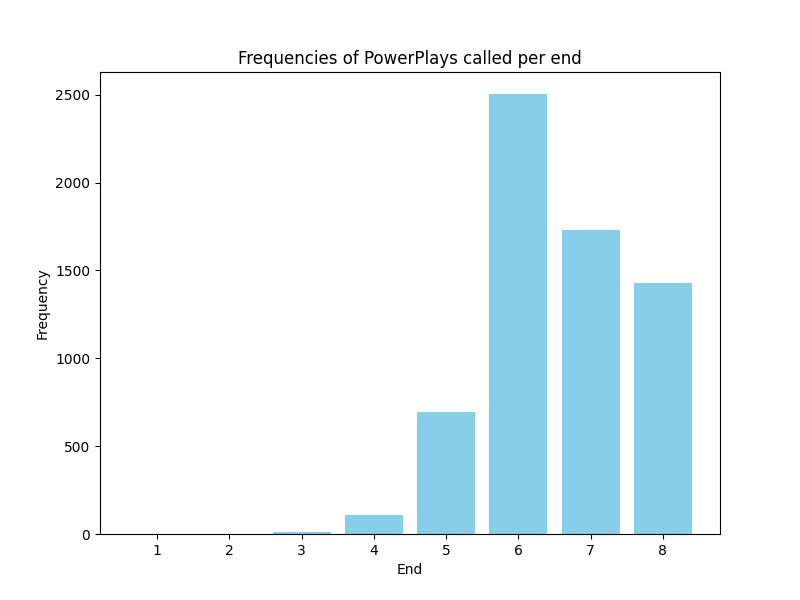
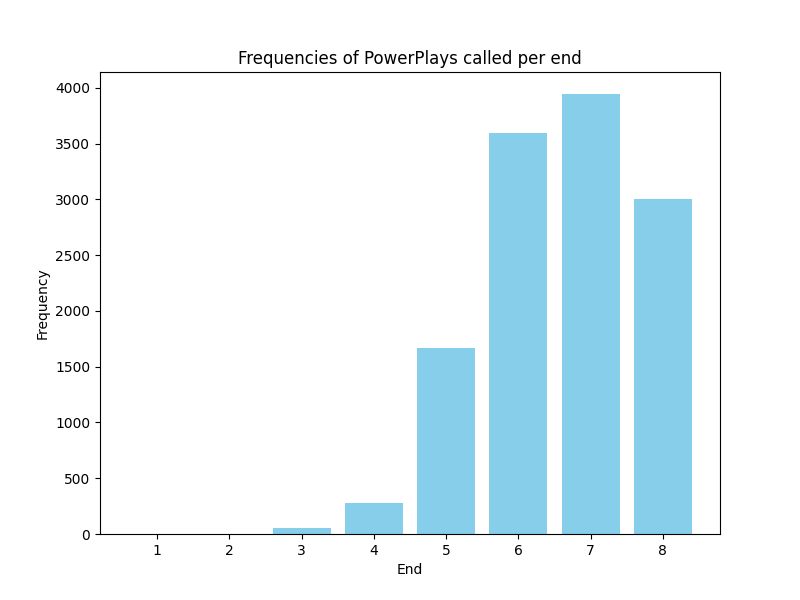
data

diff --git a/code/run_mcts.py b/code/run_mcts.py
@@ -8,8 +8,10 @@ from copy import deepcopy
 import json
 
 matches = 10000
+
 frequency_dict = {end: 0 for end in range(1, 9)}  
 frequency_dict["matches"] = matches
+
 wins_dict = {end: 0 for end in range(1, 9)}  
 draws_dict = {end: 0 for end in range(1, 9)} 
 loss_dict = {end: 0 for end in range(1, 9)}  
@@ -23,10 +25,11 @@ for _ in range(matches):
     powerplay_used = {1: False, 2: False}
     current_score = {1: 0, 2: 0}
     powerplays_remaining = {1: 1, 2: 1}
-    powerplay_end = None
+    pp_usage = {1: None, 2: None}
     root_has_hammer = (hammer == 1)
+
     for end in range(1, 9):
-        opp = [t for t in current_score if t != hammer][0]
+        opp = 3 - hammer
         state = GameState(
             current_score = deepcopy(current_score),
             end_number = end, 
@@ -36,12 +39,14 @@ for _ in range(matches):
             powerplays_remaining = deepcopy(powerplays_remaining)
         )   
 
-        mcts = MCTS(bayesian_eval_continuous, 5000)
+        mcts = MCTS(bayesian_eval_continuous, 1000)
         best_action, _ = mcts.search(state)
-
-        if best_action == "PP" and hammer == 1:
+        
+        if best_action == "PP" and powerplays_remaining[hammer] > 0:
+            pp_usage[hammer] = end
             frequency_dict[end] += 1
-            powerplay_end = end
+            powerplay_used[hammer] = True
+            powerplays_remaining[hammer] -= 1
 
         dist = PROB_TABLE_END_DIFF[best_action][end]
         outcomes = list(dist.keys())
@@ -53,12 +58,7 @@ for _ in range(matches):
         elif result < 0:
             current_score[opp] += -result
 
-        if best_action == "PP":
-            powerplay_used[hammer] = True
-            powerplays_remaining[hammer] -= 1
-
         scored = result  
-
         if scored > 0: 
             hammer = 3 - hammer  
         elif scored < 0:  
@@ -66,13 +66,14 @@ for _ in range(matches):
         else:  
             hammer = 3 - hammer  
 
-    if powerplay_end is not None:
-        if current_score[1] > current_score[2]:
-            wins_dict[powerplay_end] += 1
-        elif current_score[1] < current_score[2]:
-            loss_dict[powerplay_end] += 1
-        else:
-            draws_dict[powerplay_end] += 1
+    for team, pp_end in pp_usage.items():
+        if pp_end is not None:
+            if current_score[1] > current_score[2]:
+                wins_dict[pp_end] += 1
+            elif current_score[1] < current_score[2]:
+                loss_dict[pp_end] += 1
+            else:
+                draws_dict[pp_end] += 1
     
     if root_has_hammer:
         if current_score[1] > current_score[2]:

diff --git a/code/bayesian_ev.py b/code/bayesian_ev.py
@@ -4,7 +4,7 @@ import pyro.distributions as dist
 
 posterior_ord = torch.load("/Users/brentkong/Documents/curling/weights/testing_weights/unitddpm_<function OrderedLogistic at 0x120cf09a0>_weights.pt")
 posterior_cont = torch.load("/Users/brentkong/Documents/curling/weights/testing_weights/unitddpm_<function BaysianRegression at 0x10fef0cc0>_weights.pt")
-posterior = torch.load("/Users/brentkong/Documents/curling/weights/unitddpm_<function BaysianRegression at 0x12d9e0ae0>_weights.pt")
+production = torch.load("/Users/brentkong/Documents/curling/weights/unitddpm_<function BaysianRegression at 0x10ace0cc0>_weights.pt")
 
 def bayesian_eval_ordered(features, posterior = posterior_ord):
     f = torch.tensor([list(features.values())], dtype=torch.float)
@@ -20,7 +20,7 @@ def bayesian_eval_ordered(features, posterior = posterior_ord):
     ev_std = ev_per_sample.std().item()
     return ev_mean, ev_std
 
-def bayesian_eval_continuous(features, posterior = posterior):
+def bayesian_eval_continuous(features, posterior = production):
     f = torch.tensor([list(features.values())], dtype=torch.float)
     
     mu_samples = f @ posterior["w"].T + posterior["b"] 

diff --git a/code/train_bayesian_model.py b/code/train_bayesian_model.py
@@ -4,7 +4,7 @@ import pyro
 import pyro.distributions as dist
 from pyro.infer import MCMC, NUTS
 
-df = pd.read_csv("/Users/brentkong/Documents/curling/data_processing/train_test_data/train_df.csv")
+df = pd.read_csv("/Users/brentkong/Documents/curling/data_processing/processed_data/bayesian_training.csv")
 
 features = ["Has_Hammer",
             "PowerPlayBool",
@@ -36,7 +36,7 @@ def BaysianRegression(X, y=None):
 
 
 if __name__ == "__main__":
-    model = OrderedLogistic
+    model = BaysianRegression
     nuts_kernel = NUTS(model)
     mcmc = MCMC(nuts_kernel, num_samples=1000, warmup_steps=200)
     mcmc.run(X, y)

diff --git a/figures/graphs.py b/figures/graphs.py
@@ -10,7 +10,7 @@ loss_dict = data[2]
 draws_dict = data[3]
 hammer_analysis = data[4]
 matches = frequency_dict.pop("matches")
-mode = "win-draw"
+mode = "hammer"
 
 if mode == "frequency": 
     categories = list(frequency_dict.keys())

diff --git a/code/mcts.py b/code/mcts.py
@@ -46,6 +46,7 @@ class MCTSNode:
         return child_node
     
     def win_prob(self, ev, ends_left):
+        ends_left = max(ends_left, 1)
         sigma = 1.5 / np.sqrt(ends_left)
         return 1 / (1 + np.exp(-ev / sigma))
 
